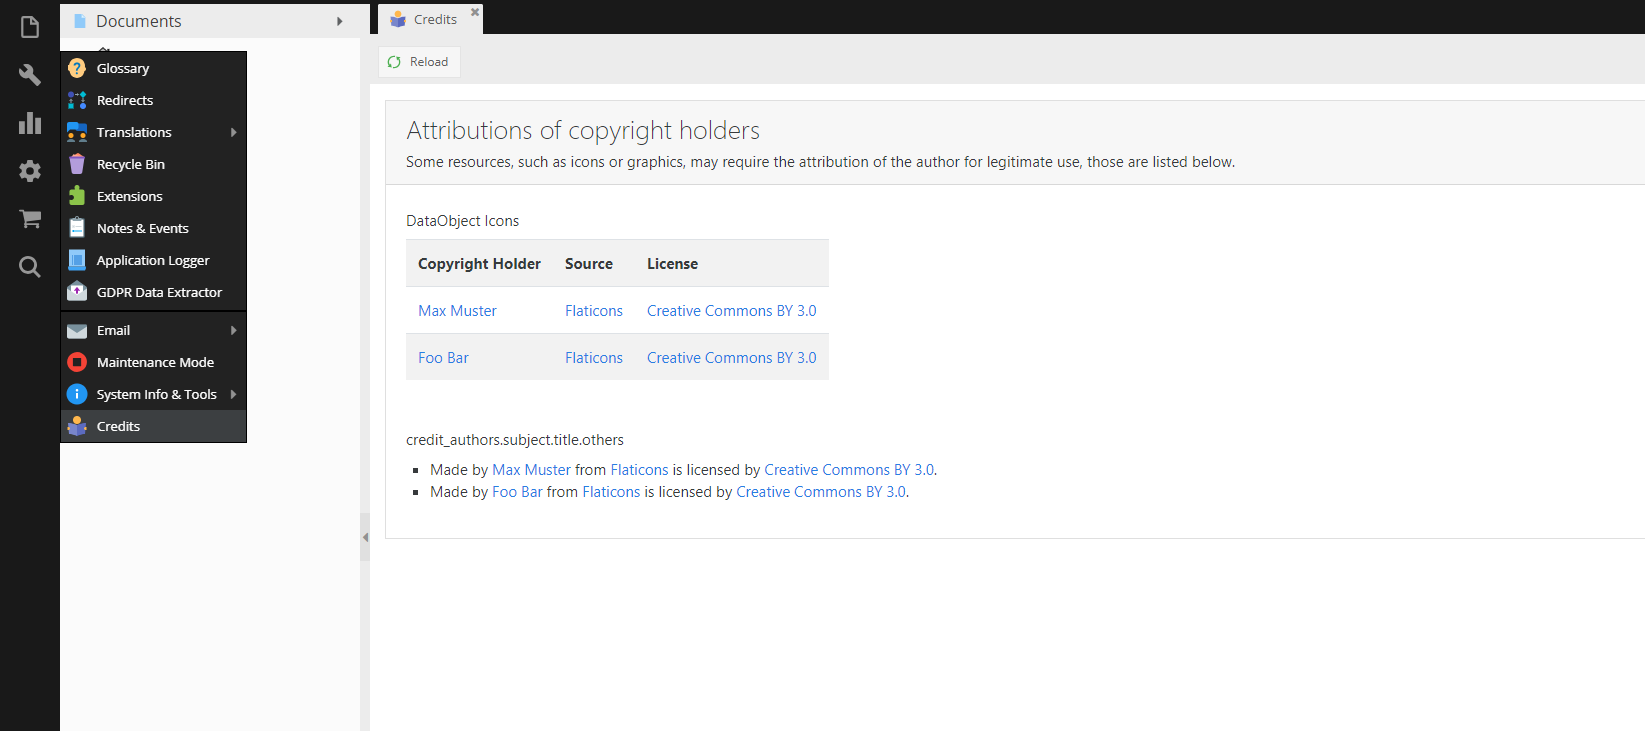
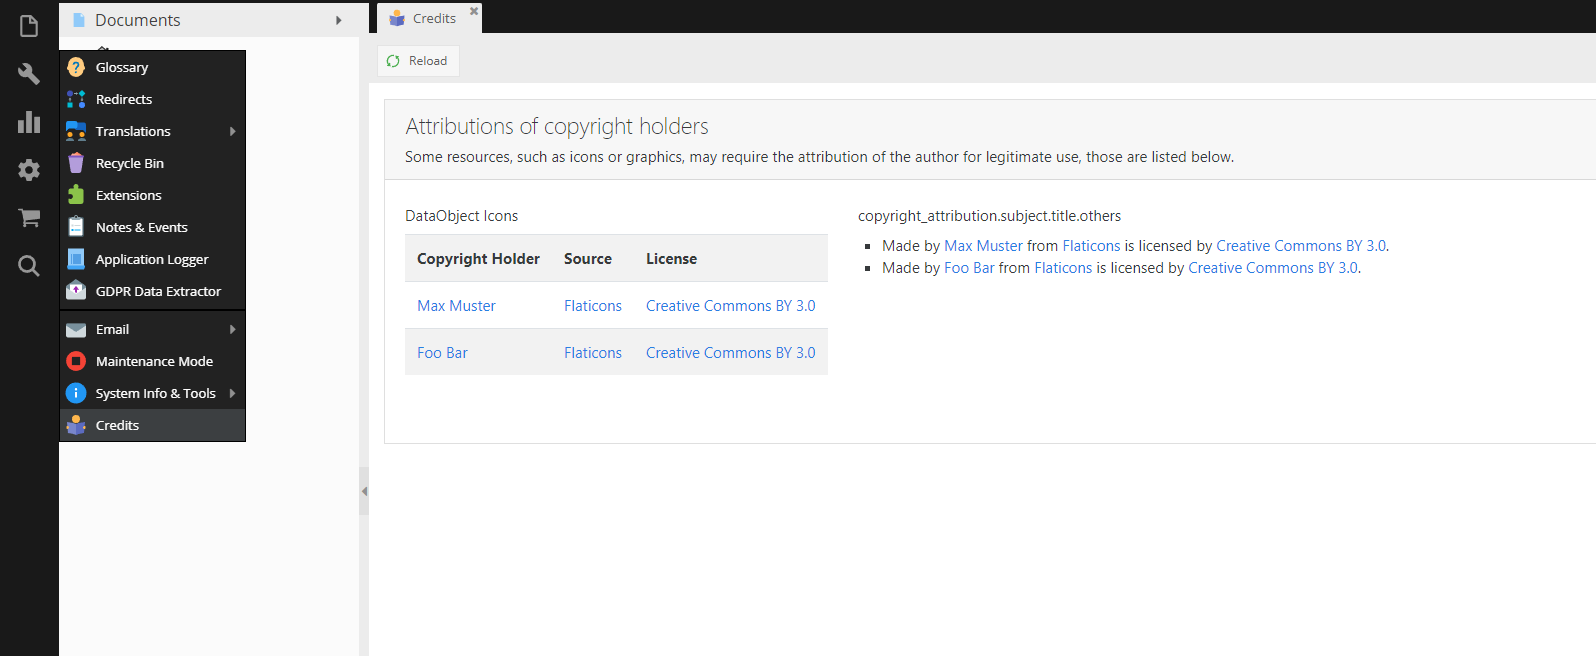
fix en translations, fix config, rename views, update readme

diff --git a/src/CopyrightAttributionBundle/Resources/public/js/bundle.js b/src/CopyrightAttributionBundle/Resources/public/js/bundle.js
@@ -2,7 +2,7 @@ pimcore.registerNS("pimcore.bundle.CopyrightAttributionBundle");
 
 pimcore.bundle.CopyrightAttributionBundle = Class.create(pimcore.plugin.admin, {
     getClassName: function () {
-        return "pimcore.bundle.CreditAuthorsBundle";
+        return "pimcore.bundle.CopyrightAttributionBundle";
     },
 
     initialize: function () {
@@ -10,7 +10,7 @@ pimcore.bundle.CopyrightAttributionBundle = Class.create(pimcore.plugin.admin, {
     },
 
     pimcoreReady: function (params, broker) {
-        this.addIconAuthorCreditMenu();
+        this.addCopyrightAttributionMenuItem();
     },
 
     parseResponse: function (response) {
@@ -23,7 +23,7 @@ pimcore.bundle.CopyrightAttributionBundle = Class.create(pimcore.plugin.admin, {
         return responseData;
     },
 
-    addIconAuthorCreditMenu : function(){
+    addCopyrightAttributionMenuItem : function(){
         var menu = pimcore.globalmanager.get("layout_toolbar").extrasMenu;
 
         menu.add({

diff --git a/src/CopyrightAttributionBundle/Resources/views/Admin/content.html.php b/src/CopyrightAttributionBundle/Resources/views/Admin/content.html.php
@@ -5,8 +5,6 @@
  * @var \Pimcore\Templating\GlobalVariables $app
  * @var array $subjects
  */
-
-
 ?>
 
 <!doctype html>
@@ -16,43 +14,44 @@
     <meta name="viewport" content="width=device-width, user-scalable=no, initial-scale=1.0, maximum-scale=1.0, minimum-scale=1.0">
     <meta http-equiv="X-UA-Compatible" content="ie=edge">
     <title><?= $this->translateAdmin("copyright_attribution.title", [], "admin") ?></title>
-    <link rel="stylesheet" href="/bundles/copyrightattribution/css/vendor/bootstrap.min.css">
+    <link rel="stylesheet" href="/bundles/copyrightattribution/css/libs/bootstrap.min.css">
 </head>
 <body>
 <main class="container-fluid">
 
-    <div class="row">
-        <div class="col">
+    <div class="card mt-3">
 
-            <div class="card mt-3">
-                <div class="card-header">
-                    <div class="card-title">
-                        <h4><?= $this->translateAdmin("copyright_attribution.title", [], "admin") ?></h4>
+        <div class="card-header">
+            <div class="card-title">
+                <h4><?= $this->translateAdmin("copyright_attribution.title", [], "admin") ?></h4>
+            </div>
+            <div class="card-subtitle"><?= $this->translateAdmin("copyright_attribution.subtitle", [], "admin") ?> </div>
+        </div>
+
+        <div class="card-body pt-0">
+            <div class="row">
+                <?php if (empty($subjects)): ?>
+                    <div class="col">
+                        <p class="my-3">
+                            <?= $this->translateAdmin("copyright_attribution.no-credits") ?>
+                        </p>
                     </div>
-                    <div class="card-subtitle"><?= $this->translateAdmin("copyright_attribution.subtitle", [], "admin") ?> </div>
-                </div>
-                <div class="card-body pt-0">
-
-                    <?php if (empty($subjects)): ?>
-                    <p class="my-3">
-                        <?= $this->translateAdmin("copyright_attribution.no-credits") ?>
-                    </p>
-                    <?php else: ?>
-                        <?php foreach ($subjects as $subject => $subjectData): ?>
-
+                <?php else: ?>
+                    <?php foreach ($subjects as $subject => $subjectData): ?>
+                        <div class="col-auto">
                             <p class="mb-2 mt-4 d-block">
                                 <?= $this->translateAdmin("copyright_attribution.subject.title.{$subject}", [], "admin") ?>
                             </p>
 
                             <?php if ($subjectData["display"] == 'list'): ?>
-                                <?= $this->template("CopyrightAttributionBundle::_list_view.html.php", ["subjectData" => $subjectData]) ?>
+                                <?= $this->template("CopyrightAttributionBundle:Shared:list.html.php", ["subjectData" => $subjectData]) ?>
                             <?php else: ?>
-                                <?= $this->template("CopyrightAttributionBundle::_table_view.html.php", ["subjectData" => $subjectData]) ?>
+                                <?= $this->template("CopyrightAttributionBundle:Shared:table.html.php", ["subjectData" => $subjectData]) ?>
                             <?php endif ?>
 
-                        <?php endforeach; ?>
-                    <?php endif; ?>
-                </div>
+                        </div>
+                    <?php endforeach; ?>
+                <?php endif; ?>
             </div>
         </div>
     </div>

diff --git a/src/CopyrightAttributionBundle/DependencyInjection/CopyrightAttributionExtension.php b/src/CopyrightAttributionBundle/DependencyInjection/CopyrightAttributionExtension.php
@@ -10,7 +10,7 @@ use Symfony\Component\DependencyInjection\Loader\YamlFileLoader;
  * Class CreditAuthorsExtension
  * @package JRemmurd\CopyrightAttributionBundle\DependencyInjection
  */
-class CopyrightAttributionBundle extends \Symfony\Component\HttpKernel\DependencyInjection\ConfigurableExtension
+class CopyrightAttributionExtension extends \Symfony\Component\HttpKernel\DependencyInjection\ConfigurableExtension
 {
     /**
      * {@inheritdoc}

diff --git a/README.md b/README.md
@@ -4,21 +4,22 @@ Adds a simple way to add attribution of authors of external resources like icons
 
 ## Configuration
 
+Translations can be added or edited in `admin` domain.
+
 ```yaml
 copyright_attribution:
+  route: "my_custom_route" # override default route
   subjects:
     dataobject_icons:
       credits:
-      - {author: "Max Muster",  author_url: "www.test.at", source: "Flaticons", source_url: "www.flaticons.com", license: "Creative Commons BY 3.0", license_url: "http://creativecommons.org/licenses/by/3.0/"}
-      - {author: "Foo Bar",     author_url: "www.test.at", source: "Flaticons", source_url: "www.flaticons.com", license: "Creative Commons BY 3.0", license_url: "http://creativecommons.org/licenses/by/3.0/"}
+      - {author: "Max Muster",  author_url: "http://www.test.at", source: "Flaticons", source_url: "http://www.flaticons.com", license: "Creative Commons BY 3.0", license_url: "http://creativecommons.org/licenses/by/3.0/"}
+      - {author: "Foo Bar",     author_url: "http://www.test.at", source: "Flaticons", source_url: "http://www.flaticons.com", license: "Creative Commons BY 3.0", license_url: "http://creativecommons.org/licenses/by/3.0/"}
     others:
       display: list  # 'list' or 'table'
       credits:
-      - {author: "Max Muster",  author_url: "www.test.at", source: "Flaticons", source_url: "www.flaticons.com", license: "Creative Commons BY 3.0", license_url: "http://creativecommons.org/licenses/by/3.0/"}
-      - {author: "Foo Bar",     author_url: "www.test.at", source: "Flaticons", source_url: "www.flaticons.com", license: "Creative Commons BY 3.0", license_url: "http://creativecommons.org/licenses/by/3.0/"}
+      - {author: "Max Muster",  author_url: "http://www.test.at", source: "Flaticons", source_url: "http://www.flaticons.com", license: "Creative Commons BY 3.0", license_url: "http://creativecommons.org/licenses/by/3.0/"}
+      - {author: "Foo Bar",     author_url: "http://www.test.at", source: "Flaticons", source_url: "http://www.flaticons.com", license: "Creative Commons BY 3.0", license_url: "http://creativecommons.org/licenses/by/3.0/"}
 ```
-
-Translations can be added or edited in `admin` domain.
 
 ## Impressions
 ![Screenshot](./docs/screenshot.PNG "Impression")
